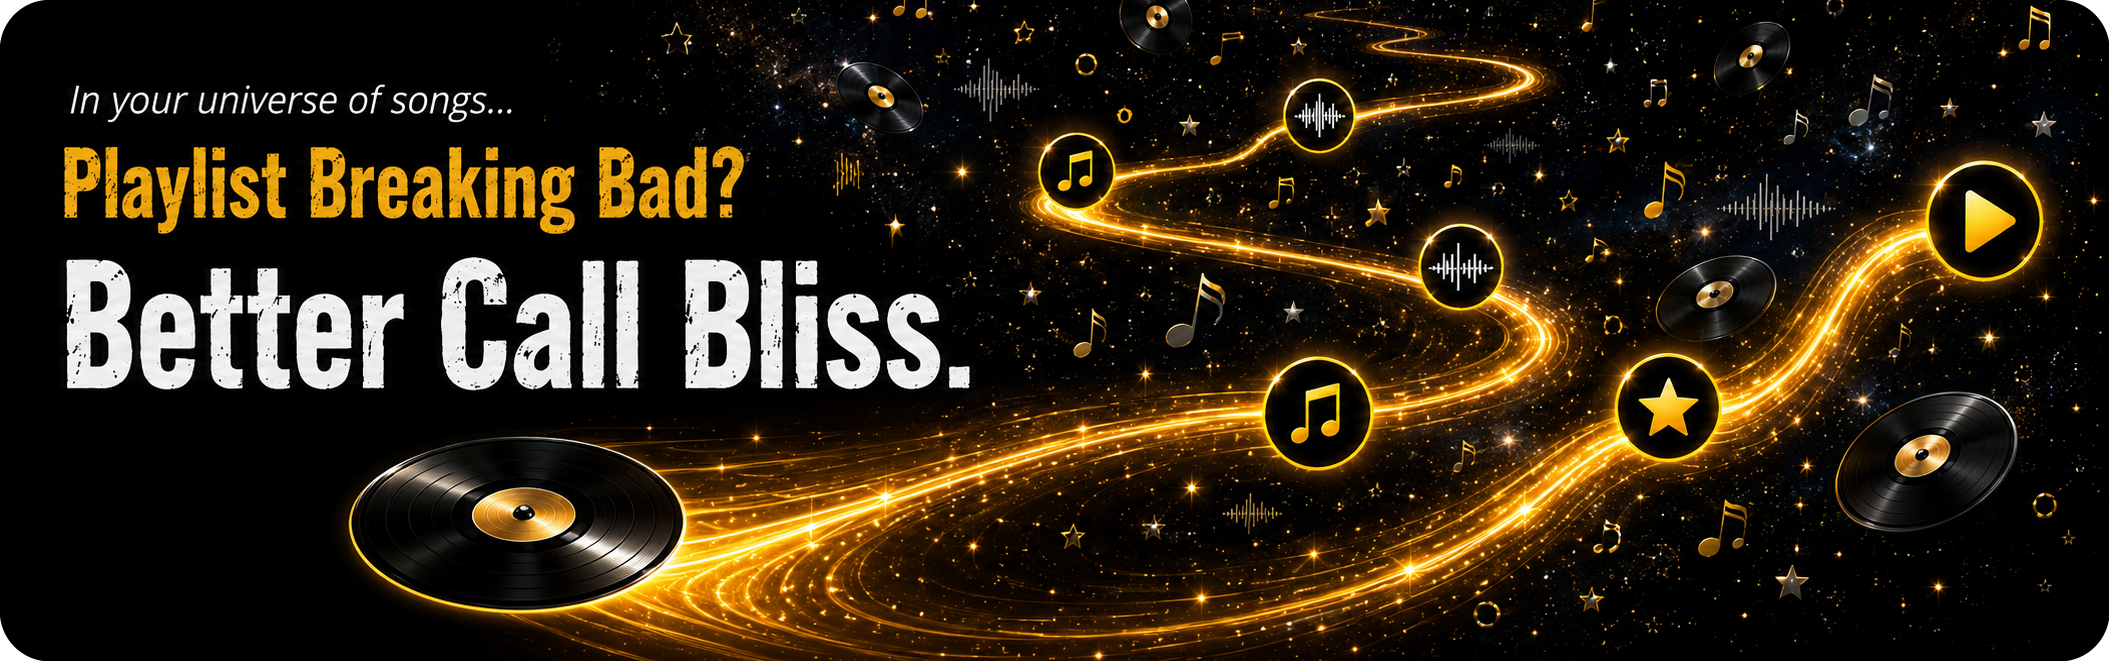
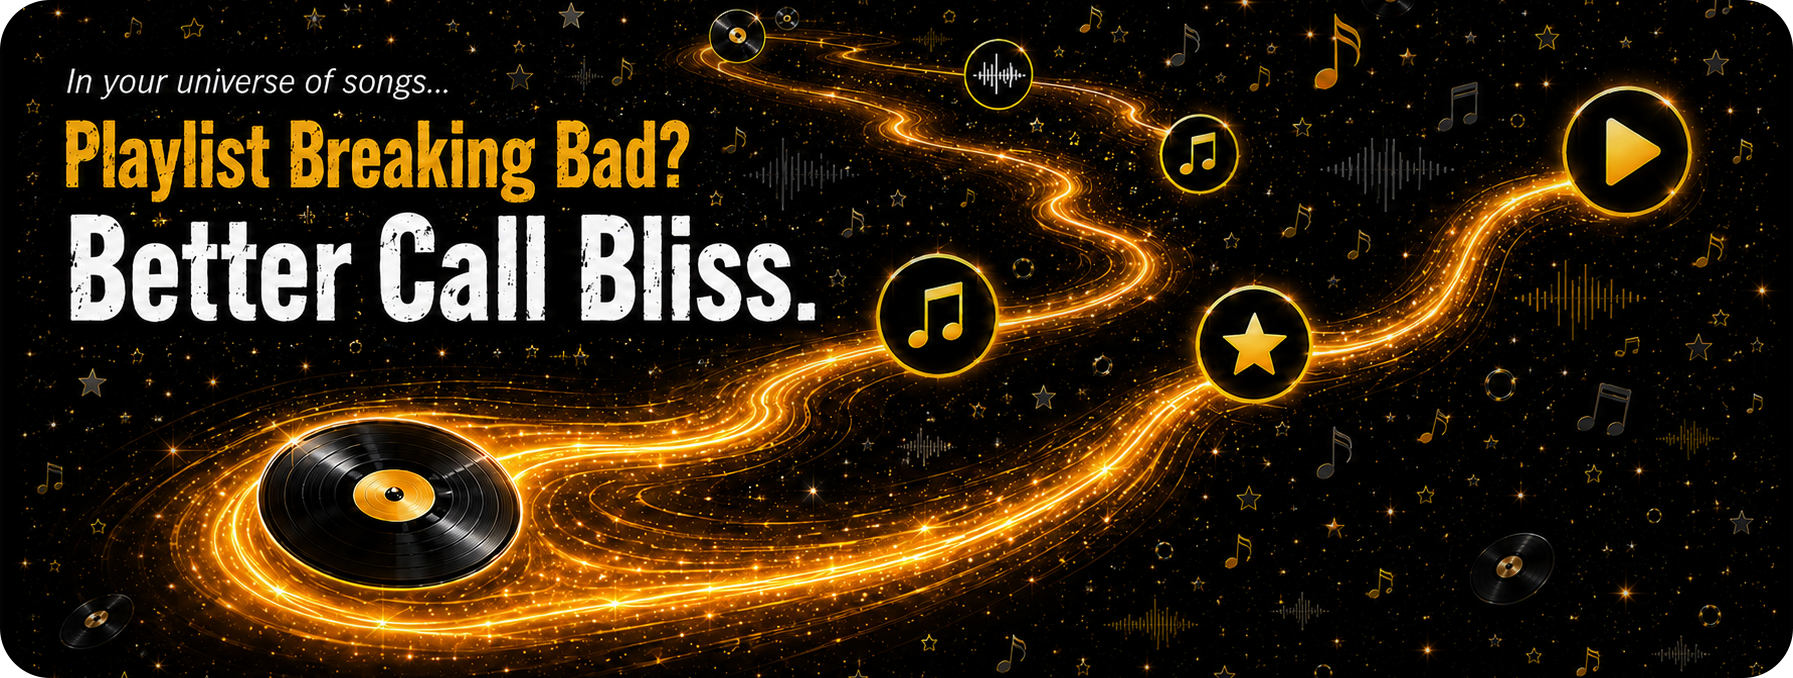
Document repository contents

diff --git a/README.md b/README.md
@@ -44,11 +44,10 @@ complete feature matrix.
   BlissMixer itself.
 - A completed Bliss analysis that produced a readable bliss.db in the Lyrion
   preferences directory.
-- A readable learned_matrix.json for the current bundled optimizer. The matrix
-  is optional in BlissMixer itself, but Better Call Bliss does not yet implement
-  BlissMixer's fallback for the first transition, where only one context track
-  exists. A zero blend removes learned influence from multi-track contexts but
-  still uses the matrix for one-track contexts. See
+- A readable learned_matrix.json is optional. When present, Adaptive can blend it
+  with dynamic variance. When absent, Better Call Bliss follows the BlissMixer
+  fallback shape: multi-track contexts use variance and one-track contexts use
+  the configured Static BlissMixer weights. See
   [Is a learned matrix optional?](ALGORITHMS.md#is-a-learned-matrix-optional).
 - A configured local Lyrion music folder whose tracks correspond to bliss.db.
 - A bliss-playlist-optimizer binary for the server platform. Development
@@ -70,6 +69,25 @@ scoring and do not fail the optimization job.
 
 The source playlist is preserved. Source overwrite and all other unfinished
 features are visibly marked as unavailable.
+
+## Repository contents
+
+- `BetterCallBliss/` is the installable Lyrion plugin source tree. It contains
+  the Perl plugin modules, classic-web templates, settings page, strings,
+  icons, and `install.xml` metadata.
+- `BetterCallBliss/Bin/aarch64-linux/bliss-playlist-optimizer` is a committed
+  ARM64 Linux helper binary for piCorePlayer/Lyrion deployments. It is built
+  from the separate
+  [chrober/bliss-playlist-optimizer](https://github.com/chrober/bliss-playlist-optimizer)
+  repository by GitHub Actions, not edited in this repository. Its exact source
+  commit, workflow run, and SHA-256 are documented in
+  `BetterCallBliss/Bin/aarch64-linux/SOURCE.md`.
+- `t/` contains lightweight Perl regression tests for the plugin glue code. The
+  tests stub the relevant LMS/LastMix APIs and check request JSON typing plus
+  Last.fm evidence handling. This folder is not installed as runtime plugin UI;
+  it is committed so future changes can catch these integration regressions.
+- `docs/`, `ALGORITHMS.md`, and `README.md` are project documentation and are
+  not required for the plugin to run.
 
 ## Component boundary
 
